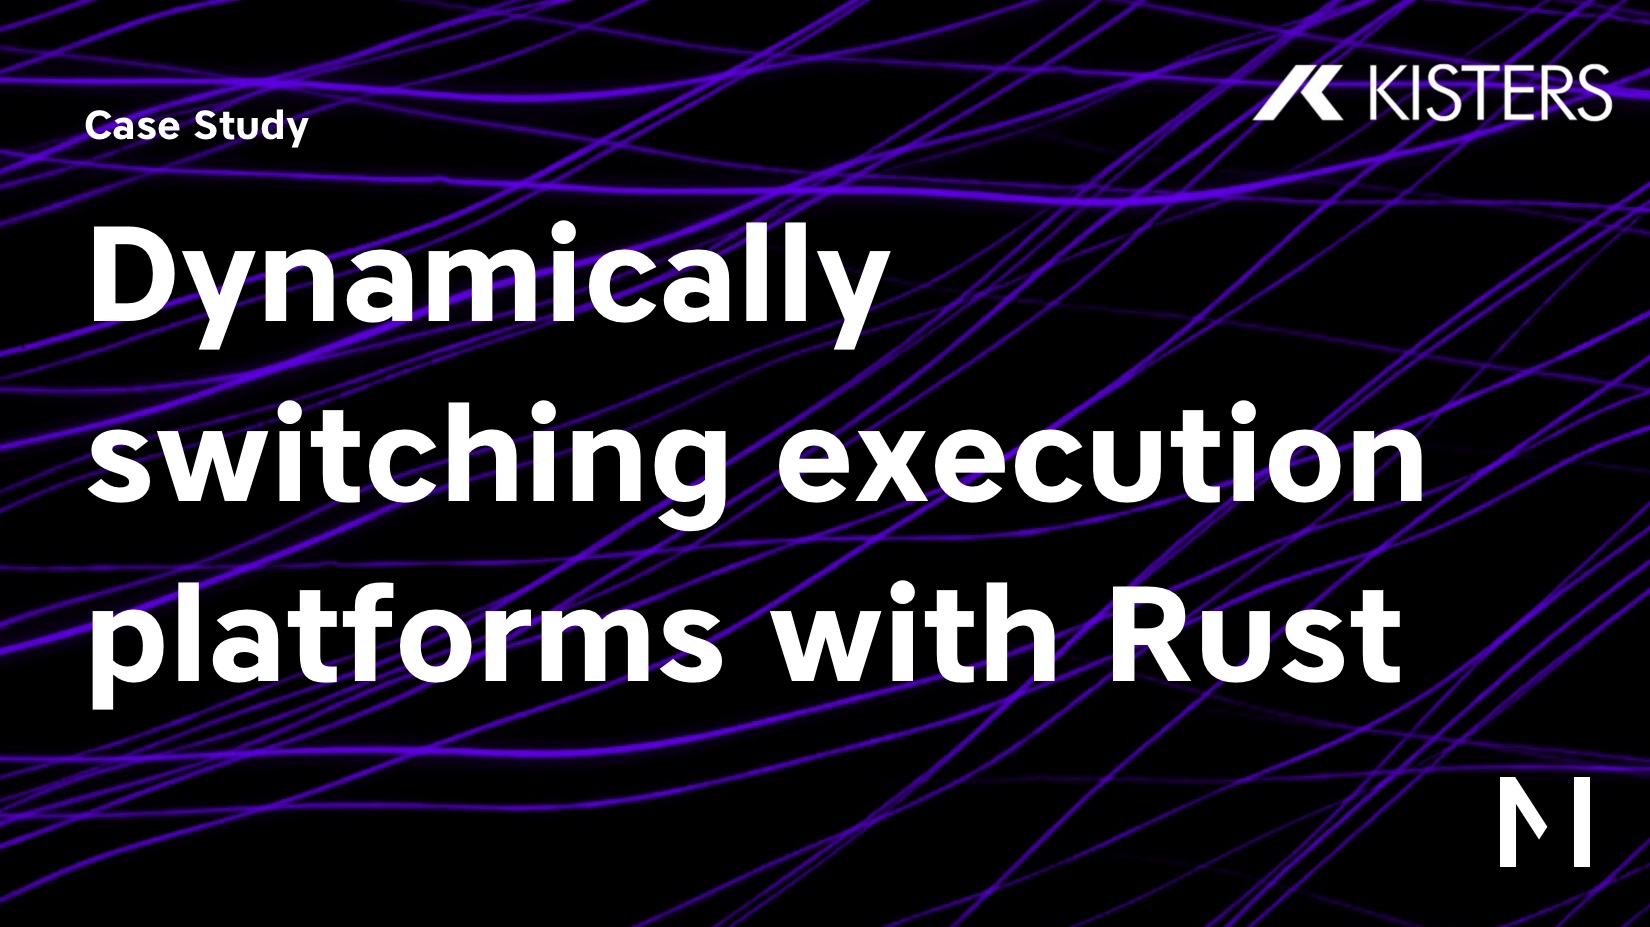
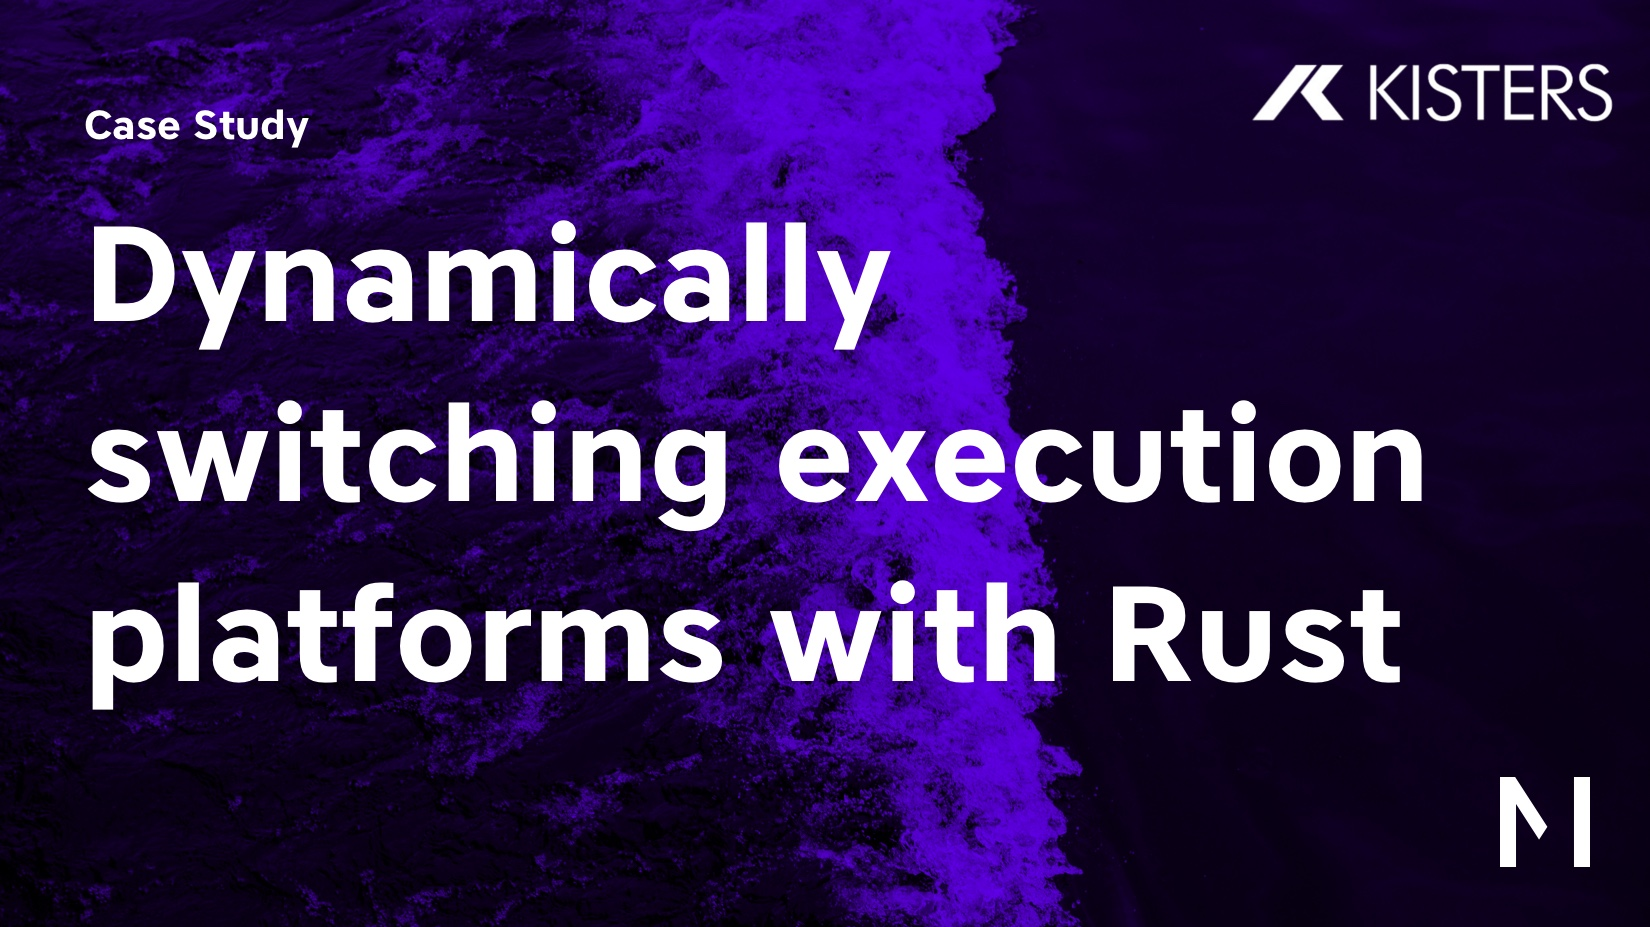
change image

diff --git a/src/cases/kisters.md b/src/cases/kisters.md
@@ -9,7 +9,7 @@ displayTitle: "Dynamically switching execution platforms with Rust"
 description: <p>KISTERS builds solutions for collecting, analyzing, and providing information based on environmental data. The HydroMet division provides software that helps warn people of upcoming floods using data obtained from numerous sensor devices deployed across the globe.</p>
 hero:
   color: purple
-  image: "/assets/images/work/kisters-background.png" # TODO
+  image: "/assets/images/work/kisters-background.jpg" # TODO
   imageAlt: "TODO" # TODO
   tags: "development / architecture / Rust"
 og:
@@ -46,7 +46,7 @@ og:
 <section class="mt-5">
         <!-- TODO add image for KISTERS -->
         {% set imageData = {
-          "imgPath": "/assets/images/work/aleph-alpha-graphs.jpg",
+          "imgPath": "/assets/images/work/kisters-graph.png",
           "alt": "TODO",
           "sizes": "100vw",
           "loading": "lazy",
